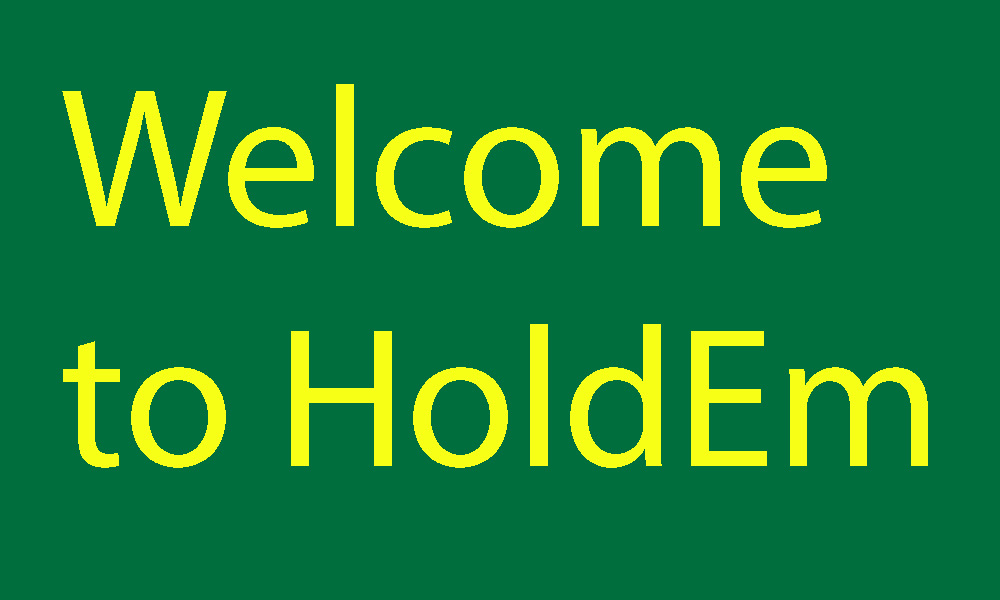
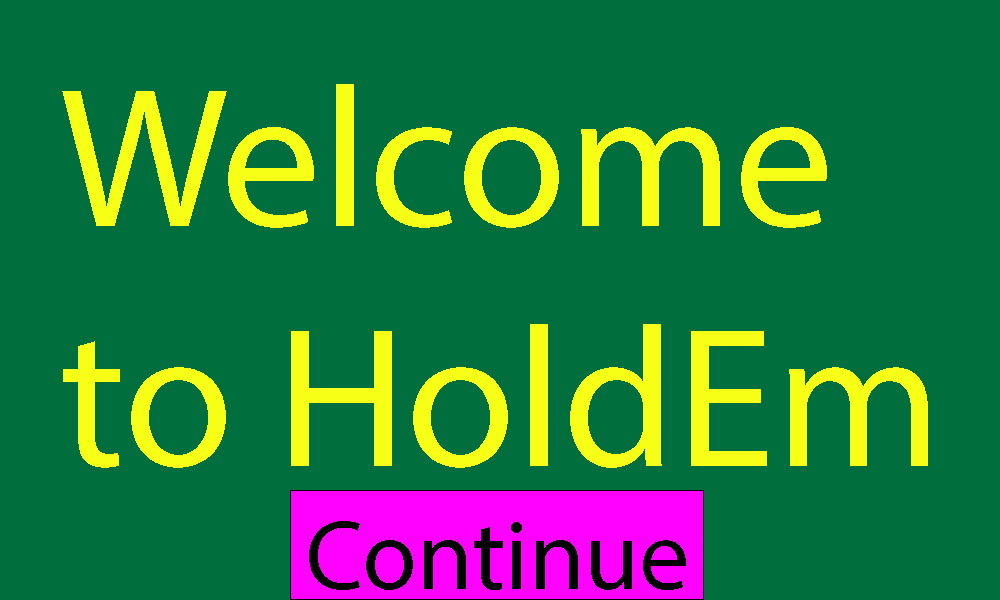
Imported Files. Redid how code worked so it works with user input

Changed region(s): [[0.279, 0.81, 0.713, 1.0]]

diff --git a/src/GuiGame.java b/src/GuiGame.java
@@ -1,9 +1,13 @@
+import java.awt.event.MouseEvent;
+import java.awt.event.MouseListener;
 import java.util.Scanner;
 
 // Press Shift twice to open the Search Everywhere dialog and type `show whitespaces`,
 // then press Enter. You can now see whitespace characters in your code.
-public class GuiGame {
-
+public class GuiGame implements MouseListener {
+    public static final Button CONTINUE = new Button(293, 490, 414, 110),
+            YES = new Button(717, 459, 108, 59),
+            NO = new Button(847, 459, 108, 53);
     private Deck deck;
     private Player player;
     private Player dealer;
@@ -12,6 +16,8 @@ public class GuiGame {
 
     private GuiGameView window;
     private int state;
+
+    private boolean yesNO;
 
     // Constructor
     public GuiGame(Player player, Player dealer) {
@@ -25,77 +31,83 @@ public class GuiGame {
         middle = new Card[3];
         s = new Scanner(System.in);
         window = new GuiGameView(this);
+        this.window.addMouseListener(this);
     }
 
     public void play() {
-        //intro / instructions
-//        if() {
-//            state++;
-//        }
-        ///if there is a yes after a continue response
-        printInstructions();
-        //game loop
-        boolean didFold = false;
-        state++;
-        while (player.getPoints() > 0) {
-            //deal player cards
-            int counter = 0;
-            this.deal();
-            //betting loop
-            for (int i = 0; i < 4; i++) {
-                window.repaint();
-                player.addPoints(-5);
-                this.printBoard(++counter);
-                didFold = willFold();
-                if (didFold) {
-                    break;
-                }
-                if(!(i == 3)) {
-                    middle[i].setRevealed(true);
-                }
-                else {
-                    dealer.getHand()[0].setRevealed(true);
-                    dealer.getHand()[1].setRevealed(true);
-                }
-            }
 
-            //end of game scenarios
-            boolean win = win();
-            printBoard(++counter);
-            if (!didFold && win) {
-                player.addPoints(50);
-                System.out.println("You win");
-            } else if (win) {
-                System.out.println("You would would have won");
-            } else {
-                System.out.println("You lost");
-            }
+        if (state == 2) {
             window.repaint();
-            if (!willContinue()) {
-                break;
-            }
-            reset();
+            deal();
+        } else if (state > 2 && state < 6) {
+            window.repaint();
+            player.addPoints(-5);
+            middle[state].setRevealed(true);
+
+
+        } else {
+            window.repaint();
+
+
+//            while (player.getPoints() > 0) {
+//                //deal player cards
+//
+//
+//                //betting loop
+//                for (int i = 0; i < 4; i++) {
+//                    window.repaint();
+//                    player.addPoints(-5);
+//                    this.printBoard(++counter);
+//
+//                    if (buttonClicked) {
+//                        break;
+//                    }
+//                    if (!(i == 3)) {
+//                        middle[i].setRevealed(true);
+//                    } else {
+//                        dealer.getHand()[0].setRevealed(true);
+//                        dealer.getHand()[1].setRevealed(true);
+//                    }
+//                }
+//
+//                //end of game scenarios
+//                boolean win = win();
+//                printBoard(++counter);
+//                if (!didFold && win) {
+//                    player.addPoints(50);
+//                    System.out.println("You win");
+//                } else if (win) {
+//                    System.out.println("You would would have won");
+//                } else {
+//                    System.out.println("You lost");
+//                }
+//                window.repaint();
+//                if (!willContinue()) {
+//                    break;
+//                }
+//                reset();
+//            }
         }
     }
 
     //returns true if the player wants to continue playing
-    public boolean willContinue() {
-        System.out.println("Do you want to continue playing");
-        String willContinue = s.nextLine();
-        switch (willContinue) {
-            case ("y"): {
-                return true;
-            }
-            case ("Y"): {
-                return true;
-            }
-            case ("Yes"): {
-                return true;
-            }
-        }
-        state = 0;
-        return false;
-    }
+//    public boolean willContinue() {
+//        System.out.println("Do you want to continue playing");
+//        String willContinue = s.nextLine();
+//        switch (willContinue) {
+//            case ("y"): {
+//                return true;
+//            }
+//            case ("Y"): {
+//                return true;
+//            }
+//            case ("Yes"): {
+//                return true;
+//            }
+//        }
+//        state = 0;
+//        return false;
+//    }
 
     //returns true if the player won
     public boolean win() {
@@ -105,19 +117,7 @@ public class GuiGame {
 
     //returns true if they want to fold
     public boolean willFold() {
-        System.out.println("Do you fold ");
-        String fold = s.nextLine();
-        switch (fold) {
-            case ("y"): {
-                return true;
-            }
-            case ("Y"): {
-                return true;
-            }
-            case ("Yes"): {
-                return true;
-            }
-        }
+
         return false;
     }
 
@@ -179,7 +179,7 @@ public class GuiGame {
     public void createDeck() {
         String[] ranks = new String[13];
         int[] points = new int[13];
-        String[] suits = { "Spades", "Hearts", "Diamonds", "Clubs"};
+        String[] suits = {"Spades", "Hearts", "Diamonds", "Clubs"};
         for (int i = 0; i < 13; i++) {
             String rank = checkRoyal(i + 2);
             ranks[i] = rank;
@@ -190,7 +190,7 @@ public class GuiGame {
 
     // checks if a number is greater than 10 and then returns corresponding special card name
     public static String checkRoyal(int num) {
-        if ( num > 1 && num < 11)
+        if (num > 1 && num < 11)
             return "" + num;
         if (num == 11)
             return "Jack";
@@ -240,15 +240,69 @@ public class GuiGame {
         return middle;
     }
 
+    public void setState(int state) {
+        this.state = state;
+    }
+
+    @Override
+    public void mousePressed(MouseEvent e) {
+
+        // For demo purposes only
+
+    }
+
+    @Override
+    // # 8: Required of a MouseListener
+    public void mouseReleased(MouseEvent e) {
+        // For demo purposes only
+        System.out.println("mouseReleased event handler executed.");
+    }
+
+    @Override
+    // # 9: Required of a MouseListener
+    public void mouseClicked(MouseEvent e) {
+
+        if (state < 2) {
+            if (CONTINUE.isClicked(e.getX(), e.getY())) {
+                state += 1;
+                play();
+            }
+        } else {
+            if (YES.isClicked(e.getX(), e.getY())) {
+                state++;
+                play();
+            } else if (NO.isClicked(e.getX(), e.getY())) {
+                for (int i = 0; i < 3; i++) {
+                    middle[i].setRevealed(true);
+                }
+                dealer.getHand()[0].setRevealed(true);
+                dealer.getHand()[1].setRevealed(true);
+                state = 6;
+            }
+        }
+
+    }
+
+    public void mouseEntered(MouseEvent e) {
+        // For demo purposes only
+        System.out.println("mouseEntered event handler executed.");
+    }
+
+    @Override
+    // # 11: Required of a MouseListener
+    public void mouseExited(MouseEvent e) {
+        // For demo purposes only
+        System.out.println("mouseExited event handler executed.");
+    }
+
     //main function
     public static void main(String[] args) {
-        System.out.println("What is your name");
+        // System.out.println("What is your name");
         Scanner input = new Scanner(System.in);
-        Player player = new Player(input.nextLine());
+        Player player = new Player("player");
         Player dealer = new Player("dealer");
         GuiGame game = new GuiGame(player, dealer);
         //if yes on opening screen game.play;
-        game.play();
 
     }
 }

diff --git a/src/GuiGameView.java b/src/GuiGameView.java
@@ -3,15 +3,17 @@ import java.awt.*;
 import java.awt.event.MouseEvent;
 import java.awt.event.MouseListener;
 
-public class GuiGameView extends JFrame implements MouseListener {
-
+public class GuiGameView extends JFrame {
 
     public static final String title = "HoldEm";
+    public static final Image MAIN_SCREEN = new ImageIcon("Resources/MainScreen.jpg").getImage(),
+            START_SCREEN = new ImageIcon("Resources/GuiGameTitle.jpg").getImage(),
+            INSTRUCTIONS = new ImageIcon("Resources/Instructions.jpg").getImage();
 
     public static final int WINDOW_WIDTH = 1000,
-                            WINDOW_HEIGHT = 600,
-                            X_PADDING = (WINDOW_WIDTH - (Card.CARD_WIDTH * 3)) / 2,
-                            Y_PADDING = 40;
+            WINDOW_HEIGHT = 600,
+            X_PADDING = (WINDOW_WIDTH - (Card.CARD_WIDTH * 3)) / 2,
+            Y_PADDING = 40;
 
     private GuiGame game;
 
@@ -25,8 +27,6 @@ public class GuiGameView extends JFrame implements MouseListener {
     }
 
     public void paint(Graphics g) {
-        g.setColor(Color.GREEN);
-        g.fillRect(0, 0, WINDOW_WIDTH, WINDOW_HEIGHT);
 
         if (game.getState() == 0) {
             drawTitleScreen(g);
@@ -36,7 +36,7 @@ public class GuiGameView extends JFrame implements MouseListener {
             drawInstructions(g);
             return;
         }
-
+        g.drawImage(MAIN_SCREEN, 0, 0, this);
         //Draws player and dealer cards
         int x = X_PADDING;
         int gameY = WINDOW_HEIGHT - Y_PADDING - Card.CARD_HEIGHT + getInsets().top;
@@ -64,45 +64,11 @@ public class GuiGameView extends JFrame implements MouseListener {
     }
 
     public void drawTitleScreen(Graphics g) {
-        Image startScreen = new ImageIcon("Resources/GuiGameTitle.jpg").getImage();
-        g.drawImage(startScreen, 0, 0, this);
+        g.drawImage(START_SCREEN, 0, 0, this);
     }
 
     public void drawInstructions(Graphics g) {
-
+        g.drawImage(INSTRUCTIONS, 0, 0, this);
     }
 
-    @Override
-    public void mousePressed(MouseEvent e) {
-
-        // For demo purposes only
-
-    }
-
-    @Override
-    // # 8: Required of a MouseListener
-    public void mouseReleased(MouseEvent e) {
-        // For demo purposes only
-        System.out.println("mouseReleased event handler executed.");
-    }
-
-    @Override
-    // # 9: Required of a MouseListener
-    public void mouseClicked(MouseEvent e) {
-
-        // For demo purposes only
-
-    }
-
-    public void mouseEntered(MouseEvent e) {
-        // For demo purposes only
-        System.out.println("mouseEntered event handler executed.");
-    }
-
-    @Override
-    // # 11: Required of a MouseListener
-    public void mouseExited(MouseEvent e) {
-        // For demo purposes only
-        System.out.println("mouseExited event handler executed.");
-    }
 }
